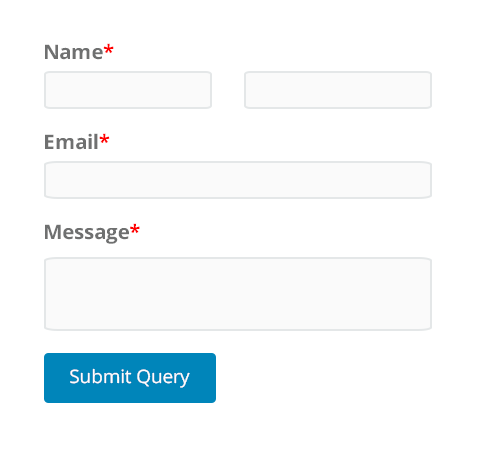
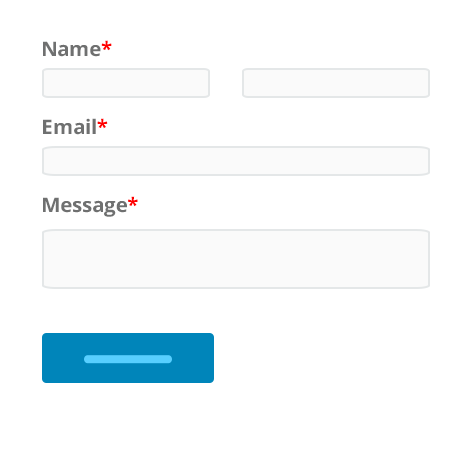
Updated templates screenshot

diff --git a/includes/templates/class-template-loan-application-form.php b/includes/templates/class-template-loan-application-form.php
@@ -11,7 +11,7 @@ class WeForms_Template_Loan_Application_Form extends WeForms_Form_Template {
         $this->enabled     = class_exists( 'WeForms_Pro' );
         $this->title       = __( 'Loan Application Form', 'weforms' );
         $this->description = __( 'Use this load application to quickly process loan applications much smoother!', 'weforms' );
-        $this->image       = WEFORMS_ASSET_URI . '/images/form-template/contact.png';
+        $this->image       = WEFORMS_ASSET_URI . '/images/form-template/loan-application.png';
     }
 
     /**
